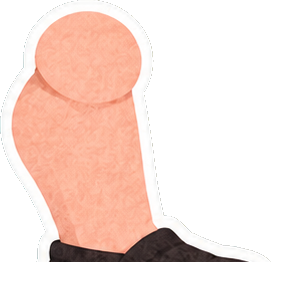
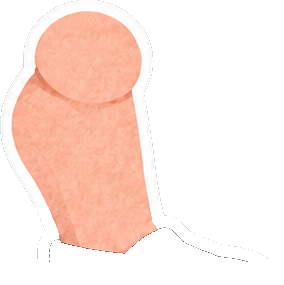
Puppet logic fixes from the per-episode logic check
- Pole carried hugged at the waist (shoulder carry always crossed the chin at Q proportions); lift tips the top forward first; put-down lowers the front end first
- Strain face (down-turned mouth, sweat drops), heavy gait while carrying, no jumping with a heavy pole
- Gold flight trail, catch reaches toward the incoming gold, catch/hug timeline fixed, far arm in front when cradling in 45-degree view
- Logic check beat text covers hesitation, hops and in-flight gold

Changed region(s): [[0.169, 0.786, 0.8732, 0.9263]]

diff --git a/video/puppet.js b/video/puppet.js
@@ -64,17 +64,18 @@ const P = (() => {
       return { look: l, head: -0.06, eyes: 'wide', lean: -0.04 }; },
     crouch: u => ({ drop: 0.6 * Math.sin(u * Math.PI / 2), lean: 0.35 * Math.sin(u * Math.PI / 2), armF: [0.5, 0.6], armB: [0.4, 0.6] }),
     lift: (u, d, a, t) => { const rise = smooth((u - 0.35) / 0.65);   // 先蹲下抓住，再使劲站起来（抖一抖）
-      return { grip: 1, drop: lerp(0.6, 0.28, rise), lean: lerp(0.35, 0.26, rise) + 0.03 * Math.sin(t * 43) * (1 - rise), handF: 'fist', handB: rise > 0.6 ? 'up' : 'fist', eyes: 'wide' }; },
-    carry: (u, d, a, t) => ({ grip: 1, handF: 'fist', handB: 'up', lean: 0.26, drop: 0.28, head: 0.12, smile: 0 }),   // 扛着重木杆：弓背、屈膝，一只手扣住、一只手托住
-    drop: u => ({ grip: 1 - smooth((u - 0.8) / 0.15), drop: 0.25 + 0.35 * Math.sin(u * Math.PI), lean: 0.2 + 0.35 * Math.sin(u * Math.PI), armF: [0.3, 0.5], armB: [0.2, 0.5], handF: 'fist', handB: 'up' }),
+      return { grip: 1, drop: lerp(0.6, 0.34, rise), lean: lerp(0.3, -0.24, rise) + 0.03 * Math.sin(t * 43) * (1 - rise), handF: u > 0.4 ? 'up' : 'fist', handB: u > 0.4 ? 'up' : 'fist', strain: 1 }; },
+    carry: (u, d, a, t) => ({ grip: 1, handF: 'up', handB: 'up', lean: -0.24, drop: 0.34, head: 0.14, smile: 0, strain: 0.9 }),   // 抱着重木杆：身子稍往后仰来平衡，屈膝，低头使劲   // 扛着重木杆：弓背、屈膝，一只手扣住、一只手托住
+    drop: u => ({ grip: 1 - smooth((u - 0.85) / 0.12), drop: 0.34 + 0.3 * smooth((u - 0.3) / 0.4), lean: lerp(-0.24, 0.55, smooth((u - 0.2) / 0.4)), head: 0.25 * smooth((u - 0.3) / 0.4),
+                  armF: [0.3, 0.5], armB: [0.2, 0.5], handF: 'up', handB: 'up', strain: 1 - smooth((u - 0.8) / 0.2) }),   // 卸到腰前，弯腰低头放下
     lookup: (u, d, a, t) => { const s = u * d, up = smooth((s - 0.1) / 0.3);   // 抬头、抬手指着天上：「看！」
       return { head: -0.34 + 0.05 * Math.sin(t * 6), lean: -0.12, eyes: 'wide', armF: [lerp(0.4, 2.55, up), lerp(0.8, 0.15, up)], armB: [0.4, 0.9],
                handF: up > 0.5 ? 'point' : 'open', handB: 'open', smile: 0.4, lift: 3 * Math.abs(Math.sin(t * 6)) }; },
-    catch: (u, d, a, t) => ({ grip: 1, head: -0.18, handF: 'up', handB: 'up', eyes: 'wide', smile: 0.6, lean: -0.04 }),
+    catch: (u, d, a, t) => ({ grip: 1, head: -0.18, handF: 'up', handB: 'up', eyes: 'wide', smile: 0.6, lean: -0.04, armBFront: true }),
     hug: (u, d, a, t, p) => { const s = u * d, b = Math.abs(Math.sin(t * 7.5));   // 捧着金子笑：嘴哈哈地开合，头和身子跟着笑声颠
       let hop = 0;   // 蹦：hops = [[开始, 蹦几下], ...]
       for (const [h0, n] of p.hops || []) if (s > h0 && s < h0 + n * 0.42) hop = Math.abs(Math.sin((s - h0) / 0.42 * Math.PI));
-      return { grip: 1, handF: 'up', handB: 'up', happy: smooth(s / 0.15), smile: 1, laugh: smooth(s / 0.3),
+      return { grip: 1, handF: 'up', handB: 'up', happy: smooth(s / 0.15), smile: 1, laugh: smooth(s / 0.3), armBFront: true,
                lean: -0.08 + 0.06 * b, head: -0.12 + 0.12 * b, lift: 5 * b + 22 * hop }; },
     wave: (u, d, a, t) => ({ armF: [2.4, 0.5], handF: 'wave', wristF: 0.35 * Math.sin(t * 11), smile: 1, head: -0.06 }),
     cheer: (u, d, a, t) => { const hop = Math.abs(Math.sin(u * d * 5.2));
@@ -87,14 +88,15 @@ const P = (() => {
     const rig = V.rig, s = rig.scale * (rig.parts.foot.size || 1), L = V.L, legLen = L.thigh + L.shin;
     const x = a.xAt(t), h = 0.05;
     const vx = (a.xAt(t + h) - a.xAt(t - h)) / (2 * h), speed = Math.abs(vx);
-    const run = smooth((speed - 200) / 140), moving = smooth(speed / 35);
-    const stride = lerp(1.25, 2.4, run) * legLen, duty = lerp(0.6, 0.36, run);
+    const heavy = (a.actions || []).some(([t0, t1, n]) => n === 'carry' && t >= t0 && t <= t1);
+    const run = heavy ? 0 : smooth((speed - 200) / 140), moving = smooth(speed / 35);
+    const stride = lerp(1.25, 2.4, run) * legLen, duty = heavy ? 0.66 : lerp(0.6, 0.36, run);
     const phase = a._phase(t);
     const lean0 = moving * lerp(0.05, 0.2, run);
     const pose = {
       lean: lean0 + Math.sin(t * 2.2 + a.phase) * 0.015, head: -lean0 * 0.45 + Math.sin(t * 1.7 + a.phase) * 0.02,
       look: 1, drop: 0, lift: 0, grip: 0, reachW: 0, wristF: 0, wristB: 0,
-      handF: 'open', handB: 'open', eyes: 'open', smile: 0, laugh: 0, happy: 0,
+      handF: 'open', handB: 'open', eyes: 'open', smile: 0, laugh: 0, happy: 0, strain: 0, armBFront: false,
     };
     const swing = moving * lerp(0.4, 0.85, run), elbow = lerp(0.3, 1.7, run * moving), R0 = REST[view] || REST.side;
     pose.armF = [lerp(R0.F[0], 0.1, moving) - swing * Math.cos(phase * TAU), lerp(R0.F[1], elbow, moving) + 0.2 * run * Math.sin(phase * TAU)];
@@ -120,10 +122,10 @@ const P = (() => {
       if (t > t1 && t < t1 + 0.22) pose.drop = Math.max(pose.drop, 0.5 * Math.sin((t - t1) / 0.22 * Math.PI));
     }
     // 髋部高度：站着微屈膝，走/跑时屈得更多；走路一步一起伏（跑步相反：腾空时最高）
-    const bob = moving * lerp(0.03, 0.07, run) * legLen * Math.cos(2 * TAU * (phase - duty / 2)) * lerp(1, -1, run);
+    const bob = moving * (heavy ? 0.08 : lerp(0.03, 0.07, run)) * legLen * Math.cos(2 * TAU * (phase - duty / 2)) * lerp(1, -1, run);
     const hipH = lerp(0.95, lerp(0.9, 0.84, run), moving) * legLen * (1 - 0.3 * pose.drop);
     const hipY = GROUND - rig.ankleH * s - hipH - bob - jy - pose.lift;
-    return { x, vx, speed, run, moving, stride, duty, phase, pose, hipY, jy, tuck, legLen };
+    return { x, vx, speed, run, moving, stride, duty, phase, pose, hipY, jy, tuck, legLen, heavy };
   }
 
   function draw(g, a, t) {
@@ -177,10 +179,10 @@ const P = (() => {
     // 飘带：结在头上，跑得越快越往后飘，带一点抖动
     const flow = Math.min(1, st.speed / 320);
     const tails = rig.parts.tails && place(rig, 'tails', head.map(rig.parts.head.knot),
-      V.tailRest - 0.5 * flow + pose.lean * 0.6 + pose.head + Math.sin(t * lerp(2.6, 14, flow) + a.phase) * lerp(0.11, 0.13, flow) + Math.sin(t * 1.1 + a.phase * 2) * 0.06 * (1 - flow));
+      V.tailRest - 0.5 * flow + 0.15 * (pose.lean + pose.head) + Math.sin(t * lerp(2.6, 14, flow) + a.phase) * lerp(0.11, 0.13, flow) + Math.sin(t * 1.1 + a.phase * 2) * 0.06 * (1 - flow));
 
     g.save(); g.translate(st.x, 0); g.scale(face, 1);
-    g.fillStyle = 'rgba(60,40,20,0.22)'; g.beginPath();
+    g.fillStyle = 'rgba(60,40,20,0.32)'; g.beginPath();
     g.ellipse(0, GROUND + 4, st.legLen * 0.75 * (1 - Math.min(0.5, (st.jy + pose.lift) / 250)), 7, 0, 0, TAU); g.fill();
     const shadowOn = () => { g.shadowColor = 'rgba(50,30,10,0.26)'; g.shadowBlur = 6; g.shadowOffsetX = 3; g.shadowOffsetY = 3; };
     const put = (pl, dark) => {
@@ -190,20 +192,33 @@ const P = (() => {
     };
     const drawHeld = layer => { if (held && held.draw && (held.layer || 'afterHead') === layer) { g.shadowColor = 'rgba(50,30,10,0.3)'; held.draw(g); shadowOn(); } };
     shadowOn();
-    armB.forEach(p => put(p, true));
+    if (!pose.armBFront) armB.forEach(p => put(p, true));
     put(legs.B.th, true); put(legs.B.sn, true); put(legs.B.ft, true);
     if (tails) put(tails, false);
     put(legs.F.th, false); put(legs.F.sn, false); put(legs.F.ft, false);
     put(torso, false);
     drawHeld('mid');
+    const onShoulder = held && held.layer === 'shoulder';
+    if (onShoulder) { put(armF[0], false); drawHeld('shoulder'); }
     g.save();   // 回头：头这张纸片绕脖子翻面
     const lk = Math.abs(pose.look) < 0.06 ? 0.06 * Math.sign(pose.look || 1) : pose.look;
     g.translate(neck[0], 0); g.scale(lk, 1); g.translate(-neck[0], 0);
     put(head, false); drawFace(g, V, head, pose, t, a);
     g.restore();
     drawHeld('afterHead');
-    armF.forEach(p => put(p, false));
+    if (pose.armBFront) armB.forEach(p => put(p, false));   // 半正面捧东西时，远侧手臂绕到身前
+    if (!onShoulder) put(armF[0], false);
+    drawHeld('overUpper');
+    put(armF[1], false); put(armF[2], false);
     drawHeld('front');
+    if (pose.strain > 0.5) {   // 汗珠：从头顶两侧甩出去（吃力的信号）
+      const top = head.map([rig.parts.head.pivot[0], rig.parts.head.pivot[1] * 0.25]);
+      for (const [dx, ph] of [[-1, 0], [1, 0.5]]) {
+        const u = ((t * 1.6 + ph) % 1), x = top[0] + dx * (10 + 26 * u), y = top[1] - 6 - 18 * Math.sin(u * Math.PI);
+        g.save(); g.globalAlpha = Math.sin(u * Math.PI) * pose.strain; g.fillStyle = '#bfe3f2'; g.strokeStyle = '#fbf6ea'; g.lineWidth = 2;
+        g.beginPath(); g.moveTo(x, y - 7); g.quadraticCurveTo(x + 5, y, x, y + 4); g.quadraticCurveTo(x - 5, y, x, y - 7); g.fill(); g.stroke(); g.restore();
+      }
+    }
     g.restore();
     return { x: st.x, top: head.map([rig.parts.head.pivot[0], 0])[1], st };
   }
@@ -213,7 +228,7 @@ const P = (() => {
     const hp = V.rig.parts.head, s = head.s;
     g.save(); g.shadowColor = 'transparent';
     g.translate(head.at[0], head.at[1]); g.rotate(head.phi); g.scale(s, s); g.translate(-hp.pivot[0], -hp.pivot[1]);
-    const happy = pose.eyes === 'happy' ? 1 : pose.happy, closed = Math.max(happy, a.blinkAt(t));
+    const happy = pose.eyes === 'happy' ? 1 : pose.happy, closed = Math.max(happy, a.blinkAt(t), 0.45 * pose.strain);
     for (const [ex, ey, rx, ry] of hp.eyes) {
       if (closed > 0) {
         g.fillStyle = V.skin; g.beginPath(); g.ellipse(ex, ey - ry * (1 - closed) * 0.9, rx * 1.18, ry * 1.12 * Math.max(closed, 0.15), 0, 0, TAU); g.fill();
@@ -229,7 +244,10 @@ const P = (() => {
     const [mx, my, mw] = hp.mouth, sm = pose.smile, open = Math.max(a.mouthAt(t), pose.laugh * (0.35 + 0.55 * Math.abs(Math.sin(t * 7.5))));
     g.lineCap = 'round'; g.lineJoin = 'round';
     const o = Math.max(open, sm > 0.5 ? 0.35 * sm : 0);
-    if (o > 0.06) {
+    if (pose.strain > 0.5 && open < 0.1) {   // 使劲：嘴紧抿、嘴角往下撇
+      g.strokeStyle = '#3a1c16'; g.lineWidth = 6; g.beginPath();
+      g.moveTo(mx - mw * 0.4, my + mw * 0.16); g.quadraticCurveTo(mx, my - mw * 0.14, mx + mw * 0.38, my + mw * 0.14); g.stroke();
+    } else if (o > 0.06) {
       const hh = mw * (0.1 + 0.6 * o), w = mw * (0.85 + 0.35 * sm - 0.15 * open);
       g.fillStyle = '#5b1c18'; g.strokeStyle = '#3a1210'; g.lineWidth = 3;
       g.beginPath(); g.moveTo(mx - w / 2, my - hh * 0.15 * sm); g.quadraticCurveTo(mx, my - hh * 0.35 * (1 - sm), mx + w / 2, my - hh * 0.15 * sm);

diff --git a/video/logic_qa.py b/video/logic_qa.py
@@ -32,10 +32,10 @@ from jevdev.writer import CLAUDE_EXE  # noqa: E402
 
 OBSERVER = "claude-opus-5-5"
 ACTION_TEXT = {   # 动作名 → 这一刻人物在做的事（给观察员和 Jev 看）
-    "talk": "站着说话，边说边比划", "fist": "握拳给自己打气", "reach": "伸手去够面前那根竖着的高木杆",
-    "look": "回头张望", "crouch": "蹲下", "lift": "抓住那根三丈长（约 7 米）、很重的木杆，把它放倒扛上肩",
-    "carry": "把那根三丈长、很重的木杆扛在肩上走/跑", "drop": "弯腰把肩上的长木杆放到地上",
-    "lookup": "抬头看天上", "catch": "伸手准备接住飞来的金块", "hug": "双手捧着接到的一小堆金块，开心地笑",
+    "talk": "站着说话，边说边比划", "fist": "握拳给自己打气", "reach": "伸手去够面前那根竖着的高木杆，但伸到一半停住犹豫（手还没碰到木杆是剧情设计）",
+    "look": "回头张望", "crouch": "蹲下", "lift": "握住那根三丈长（约 7 米）、很重的竖着的木杆靠下的地方，让杆顶往前方倒下放平，再把它抱到腰前",
+    "carry": "双臂从下面兜住那根三丈长、很重的木杆，抱在腰前，迈着沉重的步子往前走", "drop": "把抱在腰前的长木杆放下：弯腰先压前端着地，再放后端",
+    "lookup": "抬头看天上", "catch": "伸手准备接住飞来的金块（金块还在空中飞过来，这时手里还没有东西是正常的）", "hug": "双手捧着接到的一小堆金块，开心地笑",
     "cheer": "欢呼",
 }
 OBS_SCHEMA = {"type": "object", "properties": {
@@ -87,6 +87,10 @@ def beat_of(scene, t, id_, name):
     a = scene["actors"][id_ or next(iter(scene["actors"]))]
     acts = [n for t0, t1, n, *_ in a.get("actions", []) if t0 <= t <= t1] or ([name] if name else [])
     parts = [ACTION_TEXT.get(n, n) for n in acts]
+    for t0, t1, n, *pp in a.get("actions", []):   # 动作里的「蹦」：开心地蹦起来时脚离地是正常的
+        for h0, k in (pp[0].get("hops", []) if pp else []):
+            if t0 + h0 - 0.05 <= t <= t0 + h0 + k * 0.42 + 0.05:
+                parts.append("正在开心地原地蹦起来（这时脚离开地面是正常的）")
     if any(t0 - 0.2 <= t <= t1 + 0.25 for t0, t1, _h in a.get("jumps", [])):
         parts.append("正在起跳/腾空跨过地上的石头/落地（这时脚离开地面是正常的）")
     views = a.get("views")

diff --git a/memory/DECISIONS.md b/memory/DECISIONS.md
@@ -143,3 +143,14 @@
   - 接金块：流畅 0.97/0.98、精细 0.98/0.99、专业 0.84/0.89 胜出，但「看得懂」仍输（0.23/0.41）：测试片段只有他一个人、金子少；旧版有群众反应和满天钱。正片要靠商鞅抛金、群众反应来补
   - 注意：质检用每秒 6 帧的截图，0.3 秒以内的快动作会被看成跳变；每次结果有波动，关键结论要跑两次
 - 渲染速度：18 秒的片子约 40 秒渲完
+
+## 2026-09-27 每集必做「合理性复查」+ 多视角纸偶（Chris：动作有进步但不精美；扛木头手臂不该伸直；城墙接缝没对上；待机不能只有侧面）
+- 规矩：以后每一集出片前都跑 video/logic_qa.py，查四道闸门：姿势说不通 / 该接触的没接触 / 场景没接上 / 不合理的穿插。两个观察员都判「是」才算确定有问题，只有一个判「是」列为「可能」给人看
+  - 先用有已知问题的版本检验：直手扛杆、城墙断口都被查出来 → 工具可用
+  - 剧情说明要写清楚（正在跳、是哪个视角），不然会把跳起来误判成悬空
+- 搬长木杆最后定为「抱在腰前」：试过扛在肩上三种画法（压在头前、头后、手在上/在下），Q 版肩膀就在下巴底下，杆子一定横过嘴和下巴，复查每次都判「从脸上穿过去」→ 改成双臂从下面兜住、身子后仰平衡、屈膝迈沉重的步子（原文只说「徙之」，没说扛）。起杆：握住下半截让杆顶往前倒、放平后再滑到重心（杆一直在人前面）；放下：弯腰先压前端着地、再放后端。扛着重物不能跳
+- 吃力的表情：嘴角下撇 + 甩汗珠（咬牙露白牙在 Q 版小脸上会被看成笑）
+- 手从前臂上分开（open/fist/point/up/wave 五种手形，手腕能转）；握道具时由道具决定手的朝向，从握点反推手腕
+- 视角：每个角色两套部件——侧面（走、跑、干活）和 45° 半正面（站着说话、做表情、面对观众）；左右镜像后一共 4 个方向；换视角时纸片翻面 0.22 秒。两套部件按头高、腿总长换算缩放，转身时不会忽高忽低
+- 城墙：从垛口之间切一节无缝反复拼，整条墙统一加纸边；墙脚要压在草地实心部分以下
+- Codex 有时会直接输出透明底（不是绿幕）→ 用 video/split_alpha.py 切

diff --git a/memory/log/2026-09-27.md b/memory/log/2026-09-27.md
@@ -61,3 +61,4 @@
 - 没有改视频；输出 docs/讲故事-方法与决策.md，等 Chris 拍板
 - 第二轮：Chris 否决「大人说话不算数」（只对准小朋友、制造两代人对立）→ Jev 加「两代人对立」闸门；四个新开场里「同学之间的约定」胜出；标题比较 + 两次史料复核 → 定稿 N5「一根木头 / 怎么让秦国人开始相信？」；压缩版反而变差，不压
 - 人物动作：Chris 认可画风，要求资源用在人物动作上 → 纸偶关节动画（video/puppet.js），先做小伙；Jev 成对质检：扛木杆全面胜出，接金块除「看得懂」外胜出；18 秒渲染约 40 秒
+- Chris 反馈（扛木头手臂伸直、城墙接缝、只有侧面、手部不够细）→ 新增每集必做的合理性复查 video/logic_qa.py；手从前臂分开（5 种手形）；45° 半正面视角；城墙整条无缝；搬法改成抱在腰前。复查从 9/17 处确定有问题降到个位数（见最后一轮结果）
